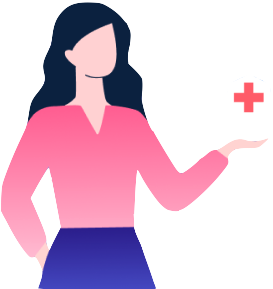
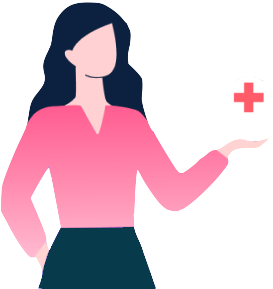
Working app

Changed region(s): [[0.1465, 0.7785, 0.5861, 1.0]]

diff --git a/app/lib/screens/homeScreen.dart b/app/lib/screens/homeScreen.dart
@@ -1,14 +1,19 @@
-
+import 'package:contact_tracing/config/Styles.dart';
 import 'package:flutter/material.dart';
-import 'package:contact_tracing/config/styles.dart';
 import 'package:dio/dio.dart';
 import '../keyGen.dart';
 import '../storage.dart';
 import 'package:badges/badges.dart';
 import 'package:provider/provider.dart';
+import 'dart:collection';
+import 'package:intl/intl.dart'; 
+//import 'dart:io';
 //import 'package:contact_tracing/widgets/widgets.dart';
-// import 'dart:convert';
+//import 'dart:convert';
 // import 'package:path_provider/path_provider.dart';
+// import 'package:flutter/services.dart';
+// import 'package:cryptography/cryptography.dart';
+
 
 
 class HomeScreen extends StatefulWidget {
@@ -38,7 +43,7 @@ class _HomeScreenState extends State<HomeScreen> {
     
   //new Dio with a BaseOptions instance.
   static BaseOptions options = new BaseOptions(
-      baseUrl: "http://192.168.0.152:6000/",
+      baseUrl: "http://192.168.0.152:6400/",
   );
   //print(response.data.toString());
 
@@ -117,7 +122,76 @@ class _HomeScreenState extends State<HomeScreen> {
         );
       },
     );
-} 
+}
+
+ List<Widget> extractTimestamps(HashMap exposed){
+  List timestamps;
+  exposed.forEach((k, v) => timestamps.add(DateFormat('dd-MM hh:mm').format(v)));
+  return timestamps.map((x){
+      return Padding(
+        padding: EdgeInsets.all(5.0),
+        child: Row(children: <Widget>[
+          Icon(Icons.access_time),
+          Text(x)
+        ]),
+      );
+    }).toList();
+  }
+
+void _showTimestamps(BuildContext context,HashMap exposed) async{
+    showDialog(
+      context: context,
+        builder: (BuildContext context) {
+          return AlertDialog(
+            titlePadding: EdgeInsets.all(10.0),
+            contentPadding: EdgeInsets.all(0.0),
+            title: Text("Exposed Timestamps"),
+            content: Column(
+                mainAxisSize: MainAxisSize.min,
+                children: <Widget>[
+                  Divider(
+                    height: 1.0,
+                    color: Colors.grey,
+                  ),
+
+                  Flexible(
+                    child: SingleChildScrollView(
+                      child: Column(
+                        mainAxisAlignment: MainAxisAlignment.start,
+                        children: extractTimestamps(exposed)
+                      ),
+                    ),
+                  ),
+
+                  Divider(
+                    color: Colors.grey,
+                    height: 1.0,
+                  ),
+                  Padding(
+                    padding: EdgeInsets.only(left: 10.0, right: 10.0, top: 2.0, bottom: 5.0),
+                    child: Row(
+                      children: <Widget>[
+                        Expanded(
+                          child: FlatButton(
+                            color: Styles.primaryColor,
+                            textColor: Colors.white,
+                            shape: OutlineInputBorder(
+                                borderRadius: BorderRadius.only(bottomLeft: Radius.circular(4.0), topLeft: Radius.circular(4.0))),
+                            child: Text("OK"),
+                            onPressed: () {
+                              Navigator.pop(context);
+                            },
+                          ),
+                        ),
+                      ],
+                    ),
+                  )
+                ]
+            ),
+          );
+        }
+    );
+  }
 
   Future<void> _validationPopUp(BuildContext context,String title,String msg) async{
     return showDialog(
@@ -155,8 +229,8 @@ class _HomeScreenState extends State<HomeScreen> {
     // final counter = context.select<ExposureNotification,int>(
     //   (exp) => exp.counter
     // );
-    final expCtr= Provider.of<ExposureNotification>(context).counter;
-    if(expCtr>0) {
+    final exposed= Provider.of<ExposureNotification>(context).exposedTimestamps;
+    if(exposed.length>0) {
       check=true;
     }
     final screenHeight = MediaQuery.of(context).size.height;
@@ -174,17 +248,17 @@ class _HomeScreenState extends State<HomeScreen> {
           position: BadgePosition.topRight(top: 0, right: 3),
           showBadge: check,
           badgeContent: Text(
-            expCtr.toString(),
+            (exposed.length).toString(),
             ),
           child: IconButton(
             icon: const Icon(Icons.notifications_none),
             iconSize: 28.0,
             onPressed: () {
-              if(expCtr>0) {
-              _validationPopUp(context, 'Visit the hospital', 'You have come in contact with people who have tested positive in the last 24 hours');
+              if(exposed.length>0) {
+              _showTimestamps(context,exposed);
               }
               else {
-                _validationPopUp(context, 'You are Safe', 'You havent come across anyone who has tested postive in the last 24 hours');
+                _validationPopUp(context, 'You are Safe', 'You havent come across anyone who has tested postive');
               }
             },
           ),
@@ -346,7 +420,7 @@ class _HomeScreenState extends State<HomeScreen> {
         height: screenHeight * 0.15,
         decoration: BoxDecoration(
           gradient: LinearGradient(
-            colors: [Color(0xFFAD9FE4), Styles.primaryColor],
+            colors: [Color(0xFF22aed1), Color(0xFF0AAB67)],
           ),
           borderRadius: BorderRadius.circular(20.0),
         ),

diff --git a/app/lib/keyGen.dart b/app/lib/keyGen.dart
@@ -15,6 +15,8 @@ import './storage.dart';
 import 'package:flutter/services.dart';
 import 'package:flutter/foundation.dart';
 import 'package:flutter/material.dart';
+import 'package:date_format/date_format.dart';
+
 //import 'package:cron/cron.dart';
 //import 'package:android_alarm_manager/android_alarm_manager.dart';
 
@@ -30,13 +32,14 @@ class ExposureNotification extends ChangeNotifier{
 
   SecretKey _rpiKey; // RollingProximityIdentifierKey
   SecretKey _aemKey; // AssociatedEncryptedMetadataKey
-  int exposedCounter=0;
-  int get counter => exposedCounter;
-  //HashMap exposedKeys = new HashMap();
+  // int exposedCounter=0;
+  // int get counter => exposedCounter;
+  HashMap exposedKeys = new HashMap();
+  HashMap get exposedTimestamps => exposedKeys;
 
   //connection to server
   static BaseOptions options = new BaseOptions(
-      baseUrl: "http://192.168.0.152:6000/",
+      baseUrl: "http://192.168.0.152:6400/",
   );
 
   //Dio object
@@ -220,8 +223,9 @@ class ExposureNotification extends ChangeNotifier{
       
         print('(scheduler) Generated new TempExpKey: $tempKeyHex');
         print('(scheduler) i: ${this._temporaryExposureKey['i']}');
-     
 
+        //remove once a day
+        exposedKeys.removeWhere((key, value) => (DateTime.now().difference(value)).inDays>14);        
      }
 
     this._rpiKey = await this
@@ -256,8 +260,7 @@ class ExposureNotification extends ChangeNotifier{
     try {
       response  = await dio.post("/keys",
       data: {
-          "currentIval": currIval.toString(),
-          "firstCall": false,
+          "currentIval": currIval.toString()
       });
     } catch (e) {
       print(e.message);
@@ -274,9 +277,8 @@ class ExposureNotification extends ChangeNotifier{
 
   /// Check for exposures
   Future<void> checkExposure(List diagnosisKeys, HashMap contactRPIs) async {
-    int exposedCtr = 0;
-    for (var patientKey in diagnosisKeys) {
-      for (var positiveKey in patientKey) {
+    //int exposedCtr = 0;
+      for (var positiveKey in diagnosisKeys) {
         // We received the keys as hex strings. Convert them to bytes and create a SecretKey instance.
         var tempKey = SecretKey(hex.decode(positiveKey['hexkey']));
         var tempIval = int.parse(positiveKey['i']);
@@ -289,15 +291,15 @@ class ExposureNotification extends ChangeNotifier{
               await this._rpiGen(localRPIKey: tempRPIKey, interval: i);
           // Now check if we ever came in contact with this rolling proximity identifier
           if (contactRPIs.containsKey(tempRPIHex)) {
-            //exposedKeys.putIfAbsent(positiveKey['hexkey'], () => i);
-            exposedCtr++;
-            
+            //find timestamp in indian standart time for this interval
+            var date = new DateTime.fromMillisecondsSinceEpoch((i*600) * 1000);
+            exposedKeys.putIfAbsent(positiveKey['hexkey'], () => date);
+            break;
+            //exposedCtr++;
           }
-        }
-      }
+        }     
     }
-    print('\n\nExposed counter: $exposedCtr\n\n'); // should be 5
-    this.exposedCounter = exposedCtr;
+   
     notifyListeners();
   }
 

diff --git a/app/lib/config/Styles.dart b/app/lib/config/Styles.dart
@@ -2,7 +2,7 @@ import 'package:flutter/material.dart';
 
 //For styling for the app (like CSS)
 class Styles{
-  static const Color primaryColor= Color(0xFF473F97);
+  static const Color primaryColor= Color(0xFF073B4C);
   static const buttonTextStyle= TextStyle(
     fontSize: 16.0,
     fontWeight: FontWeight.w600,
